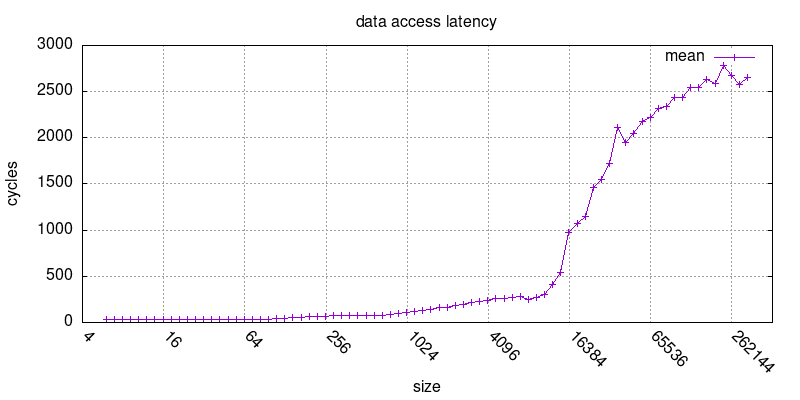
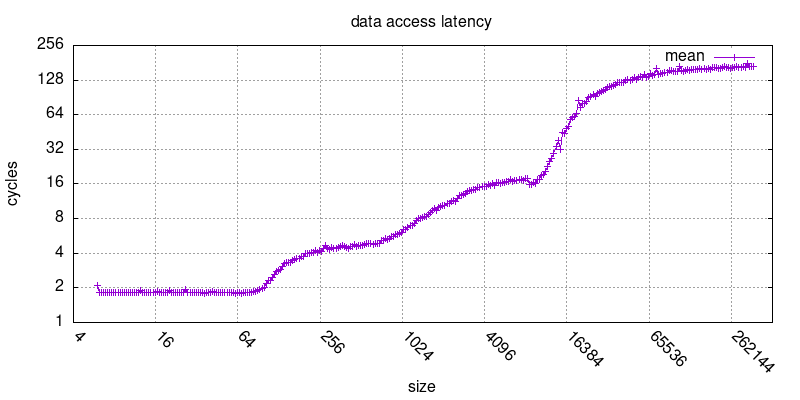
update png and latency benchmark

diff --git a/latency/main.c b/latency/main.c
@@ -47,9 +47,9 @@ int main(int argc, char **argv) {
            "stddev (%)", "MiB/s", "titre");
     
     for (u64 i = 8; i < 24; i++ ){
-        for(u64 j = 0; j < 5; j++){
+        for(u64 j = 0; j < 20; j++){
             // run_benchmark("POINT", pointer_chasing, pow(2,i+j*0.1), r);
-            run_benchmark("POINT", pointer_chasing, pow(2,i+j*0.2), r);
+            run_benchmark("POINT", pointer_chasing, pow(2,i+j*0.05), r);
         
         }
          
@@ -101,7 +101,7 @@ void run_benchmark(const ascii *title,
             t2 = rdtsc();
             // clock_gettime(CLOCK_MONOTONIC_RAW, &t2);
 
-            elapsed = (f64)(t2 - t1) / (f64)(r * iteration);
+            elapsed = (f64)(t2 - t1) / (f64)(r * iteration * 16);
         } while (elapsed <= 0.0);
 
         samples[i] = elapsed;
